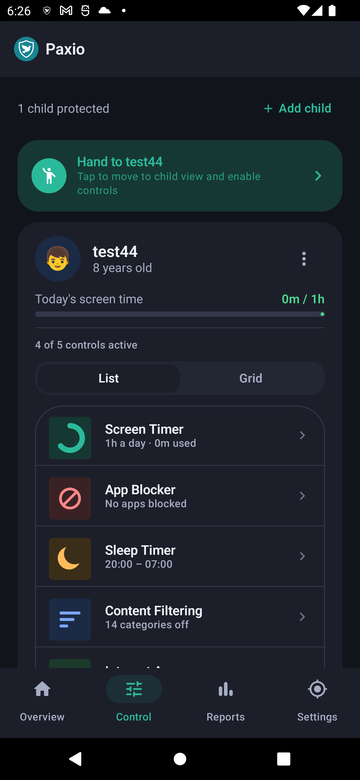
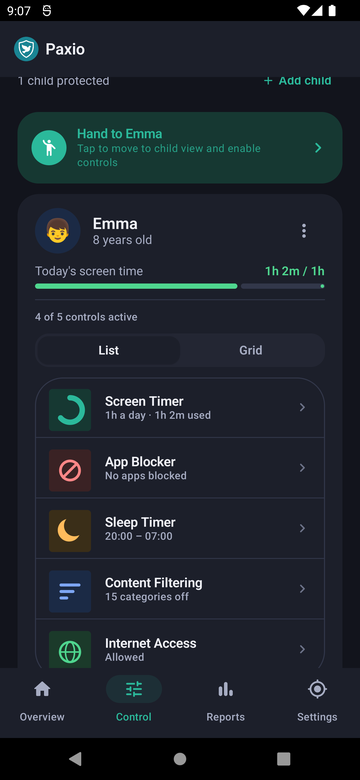
Refresh Overview/Reports/Control Help screenshots with real sample data
Replaces the old zero-state (test44) captures with a consistent
"Emma, 8" sample dataset across the Overview, Reports, and Control
screen articles. Adds a dedicated help/images/parent-overview.png
instead of reusing the marketing site's screens/overview.png, since
that asset is shared with index.html/product-tour.html's carousel
(a different child identity, "Aarav") and shouldn't change.

diff --git a/help/overview-screen.html b/help/overview-screen.html
@@ -71,7 +71,7 @@
       </ol>
     </div>
     <figure class="help-shot">
-      <img src="../screens/overview.png" alt="Paxio parent Overview screen showing a pending request banner, a usage ring with category mix, a weekly trend row, and Right now toggles">
+      <img src="images/parent-overview.png" alt="Paxio parent Overview screen showing a usage ring with category mix, stat tiles, and Right now toggles for Internet, Sleep timer, App blocker, and Content filter">
       <div class="help-shot-caption">The Overview screen.</div>
     </figure>
   </div>

diff --git a/help/onboarding.html b/help/onboarding.html
@@ -141,7 +141,7 @@
       <li><strong>Add more children,</strong> or change any of the above later, from Settings.</li>
     </ol>
     <figure class="help-shot is-small">
-      <img src="../screens/overview.png" alt="Paxio parent Overview screen showing screen-time trend stats and quick shortcuts">
+      <img src="images/parent-overview.png" alt="Paxio parent Overview screen showing a child's usage ring, category mix, stat tiles, and Right now toggles">
       <div class="help-shot-caption">The Overview dashboard.</div>
     </figure>
   </div>
